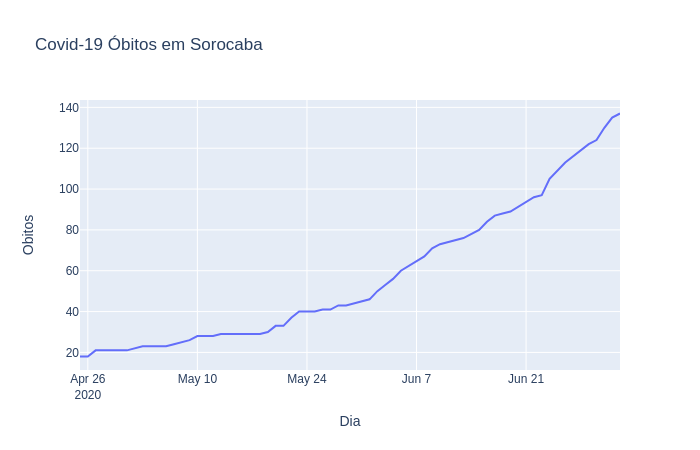
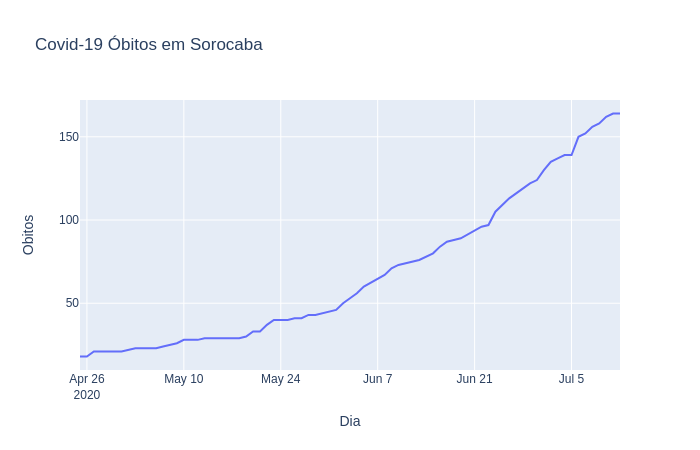
dados atualizados 12/07

diff --git a/README.md b/README.md
@@ -1,8 +1,8 @@
 ## Dados divulgados pela Prefeitura de Sorocaba sobre os casos de Covid-19
 Há uma planilha com os dados retirados das imagens divulgadas [AQUI](https://github.com/lucas-koiti/covid19-sorocaba/blob/master/dados/planilha_csv/dados.csv).
 
-## Gráfico de casos confirmados até 02/07/2020
+## Gráfico de casos confirmados até 12/07/2020
 <img src= "confirmados.png">
 
-## Gráfico de óbitos por covid-19 até 02/07/2020
+## Gráfico de óbitos por covid-19 até 12/07/2020
 <img src= "obitos.png">
